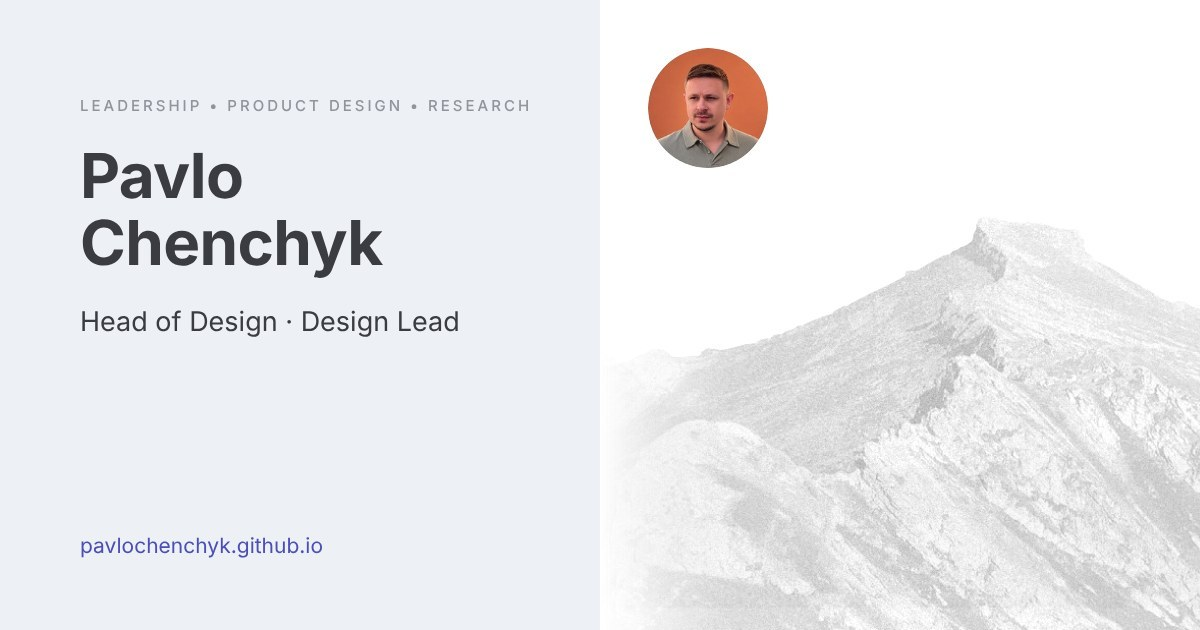
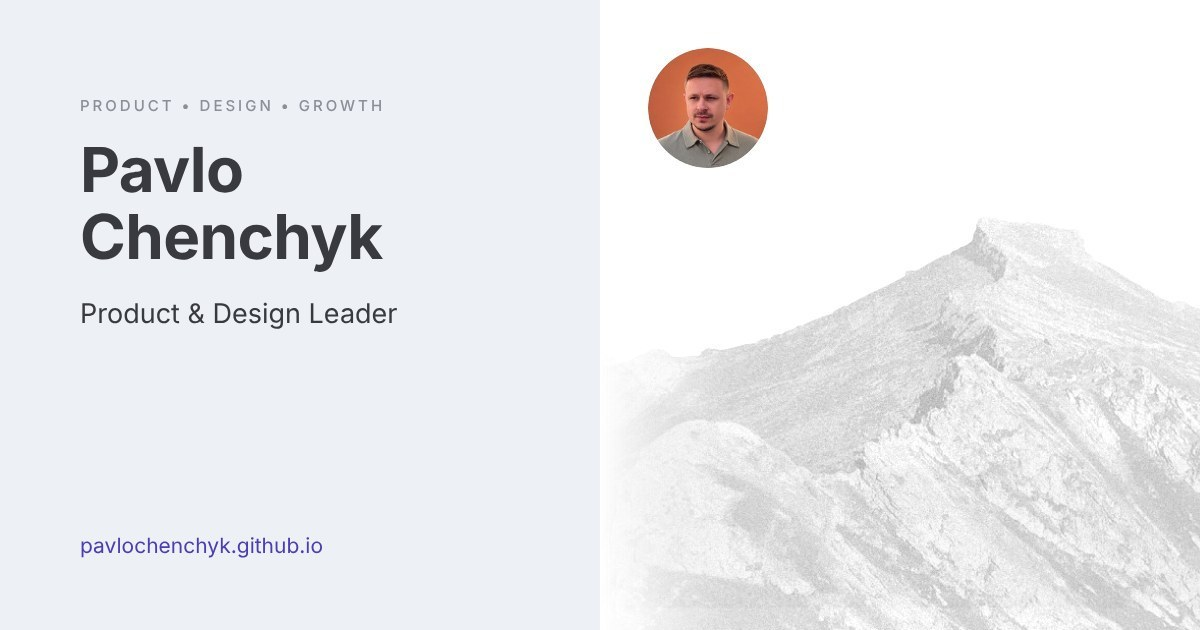
Universal social preview image: Product & Design Leader
Claude-Session: https://claude.ai/code/session_01KrCcaaPpT7xGfxyrtmaZ9B

Changed region(s): [[0.0617, 0.2111, 0.3392, 0.4524], [0.0617, 0.4825, 0.4008, 0.5429], [0.0617, 0.1508, 0.4317, 0.181]]

diff --git a/pm/index.html b/pm/index.html
@@ -46,7 +46,7 @@
 :root[data-theme="dark"]:not([data-site-theme="light"]) .dx-ov__b::before,:root[data-site-theme="dark"] .dx-ov__b::before{background:#C79BDF}
 @media (prefers-color-scheme:dark){:root:not([data-theme="light"]):not([data-site-theme="light"]) .dx-ov__b::before{background:#C79BDF}}
 </style>
-<title>Pavlo Chenchyk — Product Manager · Growth &amp; Monetization</title><link rel="icon" type="image/png" sizes="64x64" href="../assets/favicon.png"><link rel="icon" href="../assets/favicon.ico" sizes="any"><link rel="apple-touch-icon" href="../assets/apple-touch-icon.png"><meta name="description" content="Pavlo Chenchyk — Product Manager with 10+ years in B2C and SaaS products. Founded and ran a subscription iOS app: web-to-app funnel, monetization, retention and P&amp;L. Former Chief Design Officer."><meta property="og:type" content="website"><meta property="og:url" content="https://pavlochenchyk.github.io/pm/"><meta property="og:title" content="Pavlo Chenchyk — Product Manager · Growth &amp; Monetization"><meta property="og:description" content="Pavlo Chenchyk — Product Manager with 10+ years in B2C and SaaS products. Founded and ran a subscription iOS app: web-to-app funnel, monetization, retention and P&amp;L. Former Chief Design Officer."><meta property="og:image" content="https://pavlochenchyk.github.io/assets/og-image.jpg?v=2"><meta property="og:image:width" content="1200"><meta property="og:image:height" content="630"><meta name="twitter:card" content="summary_large_image"><link rel="preconnect" href="https://fonts.googleapis.com"><link rel="preconnect" href="https://fonts.gstatic.com" crossorigin><link rel="stylesheet" href="https://fonts.googleapis.com/css2?family=Plus+Jakarta+Sans:ital,wght@0,200;0,300;0,400;0,500;0,700;1,400&display=swap"><style>
+<title>Pavlo Chenchyk — Product Manager · Growth &amp; Monetization</title><link rel="icon" type="image/png" sizes="64x64" href="../assets/favicon.png"><link rel="icon" href="../assets/favicon.ico" sizes="any"><link rel="apple-touch-icon" href="../assets/apple-touch-icon.png"><meta name="description" content="Pavlo Chenchyk — Product Manager with 10+ years in B2C and SaaS products. Founded and ran a subscription iOS app: web-to-app funnel, monetization, retention and P&amp;L. Former Chief Design Officer."><meta property="og:type" content="website"><meta property="og:url" content="https://pavlochenchyk.github.io/pm/"><meta property="og:title" content="Pavlo Chenchyk — Product Manager · Growth &amp; Monetization"><meta property="og:description" content="Pavlo Chenchyk — Product Manager with 10+ years in B2C and SaaS products. Founded and ran a subscription iOS app: web-to-app funnel, monetization, retention and P&amp;L. Former Chief Design Officer."><meta property="og:image" content="https://pavlochenchyk.github.io/assets/og-image.jpg?v=3"><meta property="og:image:width" content="1200"><meta property="og:image:height" content="630"><meta name="twitter:card" content="summary_large_image"><link rel="preconnect" href="https://fonts.googleapis.com"><link rel="preconnect" href="https://fonts.gstatic.com" crossorigin><link rel="stylesheet" href="https://fonts.googleapis.com/css2?family=Plus+Jakarta+Sans:ital,wght@0,200;0,300;0,400;0,500;0,700;1,400&display=swap"><style>
 /* Layout: inner pages = grey canvas with a fixed white column on the right (Tilda "Pavel Chen" portfolio); home = 50/50 split. */
 :root{
   --bg:#EDF0F5;        /* page canvas */

diff --git a/index.html b/index.html
@@ -45,7 +45,7 @@
 :root[data-theme="dark"]:not([data-site-theme="light"]) .dx-ov__b::before,:root[data-site-theme="dark"] .dx-ov__b::before{background:#C79BDF}
 @media (prefers-color-scheme:dark){:root:not([data-theme="light"]):not([data-site-theme="light"]) .dx-ov__b::before{background:#C79BDF}}
 </style>
-<title>Pavlo Chenchyk — Head of Design · Design Lead</title><link rel="icon" type="image/png" sizes="64x64" href="assets/favicon.png"><link rel="icon" href="assets/favicon.ico" sizes="any"><link rel="apple-touch-icon" href="assets/apple-touch-icon.png"><meta name="description" content="Pavlo Chenchyk — Head of Design and Design Lead with 10+ years in product design. Former Chief Design Officer who grew a design and research team from 2 to 17 people."><meta property="og:type" content="website"><meta property="og:url" content="https://pavlochenchyk.github.io/"><meta property="og:title" content="Pavlo Chenchyk — Head of Design · Design Lead"><meta property="og:description" content="Pavlo Chenchyk — Head of Design and Design Lead with 10+ years in product design. Former Chief Design Officer who grew a design and research team from 2 to 17 people."><meta property="og:image" content="https://pavlochenchyk.github.io/assets/og-image.jpg?v=2"><meta property="og:image:width" content="1200"><meta property="og:image:height" content="630"><meta name="twitter:card" content="summary_large_image"><link rel="preconnect" href="https://fonts.googleapis.com"><link rel="preconnect" href="https://fonts.gstatic.com" crossorigin><link rel="stylesheet" href="https://fonts.googleapis.com/css2?family=Plus+Jakarta+Sans:ital,wght@0,200;0,300;0,400;0,500;0,700;1,400&display=swap"><style>
+<title>Pavlo Chenchyk — Head of Design · Design Lead</title><link rel="icon" type="image/png" sizes="64x64" href="assets/favicon.png"><link rel="icon" href="assets/favicon.ico" sizes="any"><link rel="apple-touch-icon" href="assets/apple-touch-icon.png"><meta name="description" content="Pavlo Chenchyk — Head of Design and Design Lead with 10+ years in product design. Former Chief Design Officer who grew a design and research team from 2 to 17 people."><meta property="og:type" content="website"><meta property="og:url" content="https://pavlochenchyk.github.io/"><meta property="og:title" content="Pavlo Chenchyk — Head of Design · Design Lead"><meta property="og:description" content="Pavlo Chenchyk — Head of Design and Design Lead with 10+ years in product design. Former Chief Design Officer who grew a design and research team from 2 to 17 people."><meta property="og:image" content="https://pavlochenchyk.github.io/assets/og-image.jpg?v=3"><meta property="og:image:width" content="1200"><meta property="og:image:height" content="630"><meta name="twitter:card" content="summary_large_image"><link rel="preconnect" href="https://fonts.googleapis.com"><link rel="preconnect" href="https://fonts.gstatic.com" crossorigin><link rel="stylesheet" href="https://fonts.googleapis.com/css2?family=Plus+Jakarta+Sans:ital,wght@0,200;0,300;0,400;0,500;0,700;1,400&display=swap"><style>
 /* Layout: inner pages = grey canvas with a fixed white column on the right (Tilda "Pavel Chen" portfolio); home = 50/50 split. */
 :root{
   --bg:#EDF0F5;        /* page canvas */
